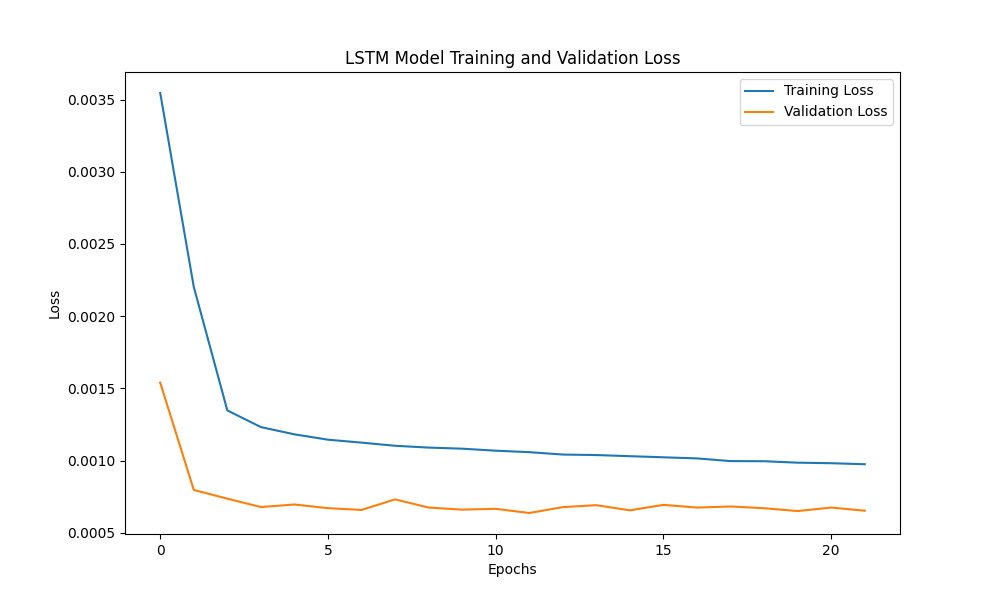
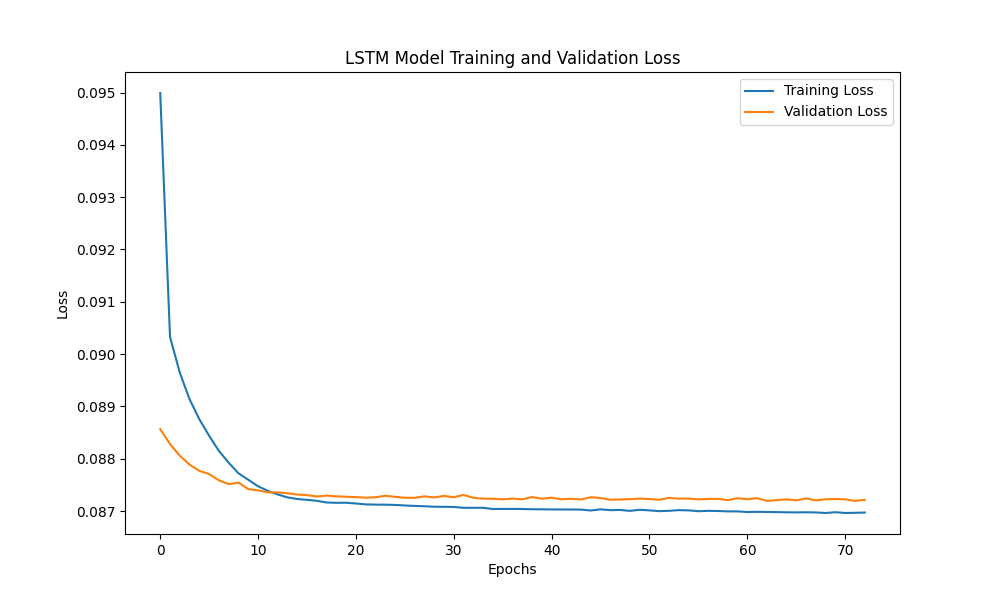
fixing and optimizing models

diff --git a/src/data_loader.py b/src/data_loader.py
@@ -18,24 +18,21 @@ def normalize_data(features: np.ndarray) -> Tuple[np.ndarray, MinMaxScaler]:
 # Create the sequences for training model
 def create_sequences(data: np.ndarray, seq_len: int, forecast_horizon: int):
   X, y = [], []
-  
-  # Loop through the data to create sequences of the specified length and corresponding targets
+
   for i in range(len(data) - seq_len - forecast_horizon + 1):
     X.append(data[i:i + seq_len])
-    y.append(data[i + seq_len + forecast_horizon - 1])
-    
+    y.append(data[i + seq_len + forecast_horizon - 1, 0]) 
+
   X = np.array(X)
   y = np.array(y)
-  
-  # 70% for training, 10% for validation, and 20% for testing
+
   train_end = int(len(X) * 0.7)
   val_end = int(len(X) * 0.8)
-  
-  # Split the data into training, validation, and testing sets
+
   X_train, y_train = X[:train_end], y[:train_end]
   X_val, y_val = X[train_end:val_end], y[train_end:val_end]
   X_test, y_test = X[val_end:], y[val_end:]
-  
+
   return (X_train, y_train), (X_val, y_val), (X_test, y_test)
 
 

diff --git a/src/evaluation.py b/src/evaluation.py
@@ -14,13 +14,14 @@ METRICS_DIR = Path("results/metrics")
 
 # Inverse transform the data using the scaler
 def inverse_transform(scaler, data: np.ndarray) -> np.ndarray:
-  # Create a dummy array with the same shape as the original features, where the first column is the data to be inverse transformed and the rest are zeros
-  dummy = np.zeros((len(data), 4))
-  dummy[:, 0] = data.flatten()
-  
-  # Inverse transform the data and return only the traffic volume column
-  inverse = scaler.inverse_transform(dummy)[:, 0]
-  return inverse
+  flat = data.flatten()
+
+  dummy = np.zeros((len(flat), scaler.n_features_in_))
+  dummy[:, 0] = flat   
+
+  inversed = scaler.inverse_transform(dummy)
+
+  return inversed[:, 0]
 
 
 # Compute evaluation metrics: MAE, RMSE, and MAPE

diff --git a/models/lstm_model.py b/models/lstm_model.py
@@ -6,6 +6,7 @@ from tensorflow.keras.optimizers import Adam
 from tensorflow.keras.callbacks import EarlyStopping, ModelCheckpoint
 from src.data_loader import prepare_data
 
+
 # ------------------------------------
 # --- 1. LOAD AND PREPARE THE DATA ---
 # ------------------------------------
@@ -20,9 +21,9 @@ from src.data_loader import prepare_data
 # --- 2. BUILD THE LSTM MODEL ---
 # -------------------------------
 model = Sequential([
-  LSTM(units=64, return_sequences=True, input_shape=(192, 4)),
+  LSTM(units=128, return_sequences=True, input_shape=(192, 4)),
   Dropout(0.3),
-  LSTM(units=32, return_sequences=False),
+  LSTM(units=64, return_sequences=False),
   Dropout(0.3),
   Dense(units=1)
 ])

diff --git a/models/gru_model.py b/models/gru_model.py
@@ -21,9 +21,9 @@ from src.data_loader import prepare_data
 # --- 2. BUILD THE GRU MODEL ---
 # ------------------------------
 model = Sequential([
-  GRU(units=64, return_sequences=True, input_shape=(192, 4)),
+  GRU(units=128, return_sequences=True, input_shape=(192, 4)),
   Dropout(0.3),
-  GRU(units=32, return_sequences=False),
+  GRU(units=64, return_sequences=False),
   Dropout(0.3),
   Dense(units=1)
 ])
